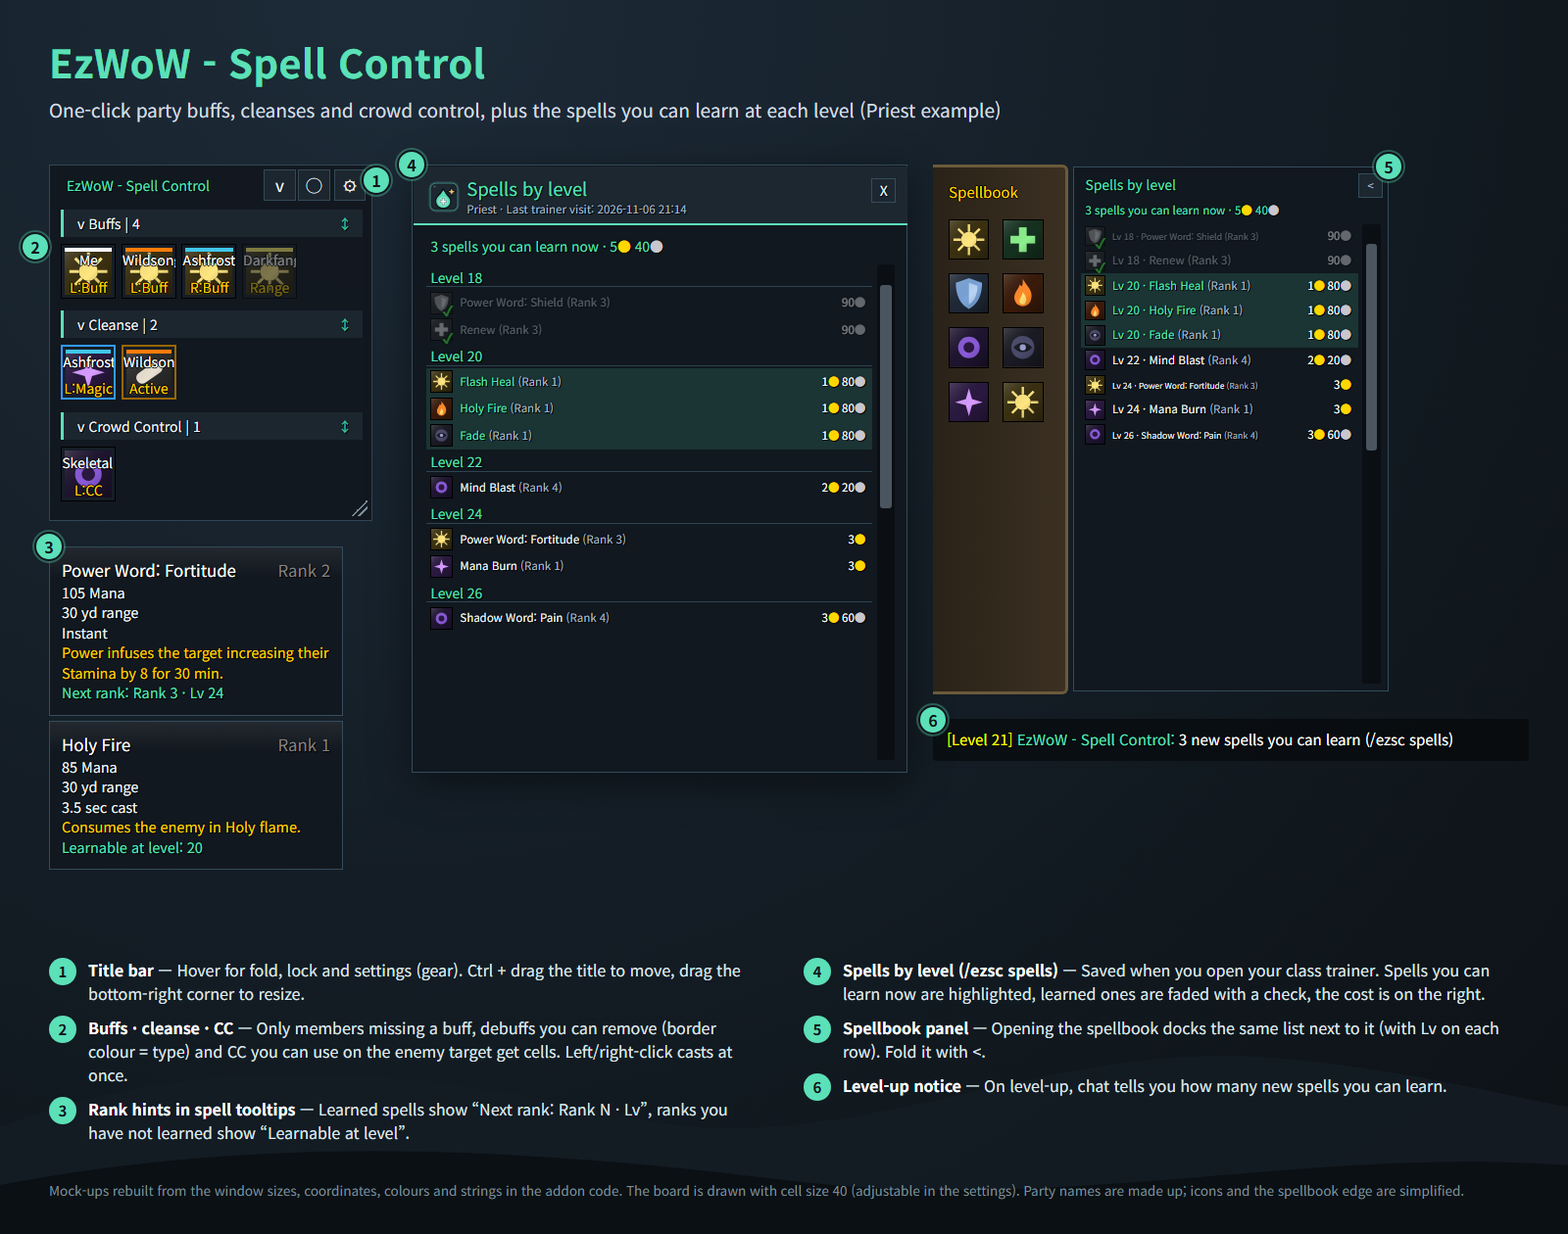
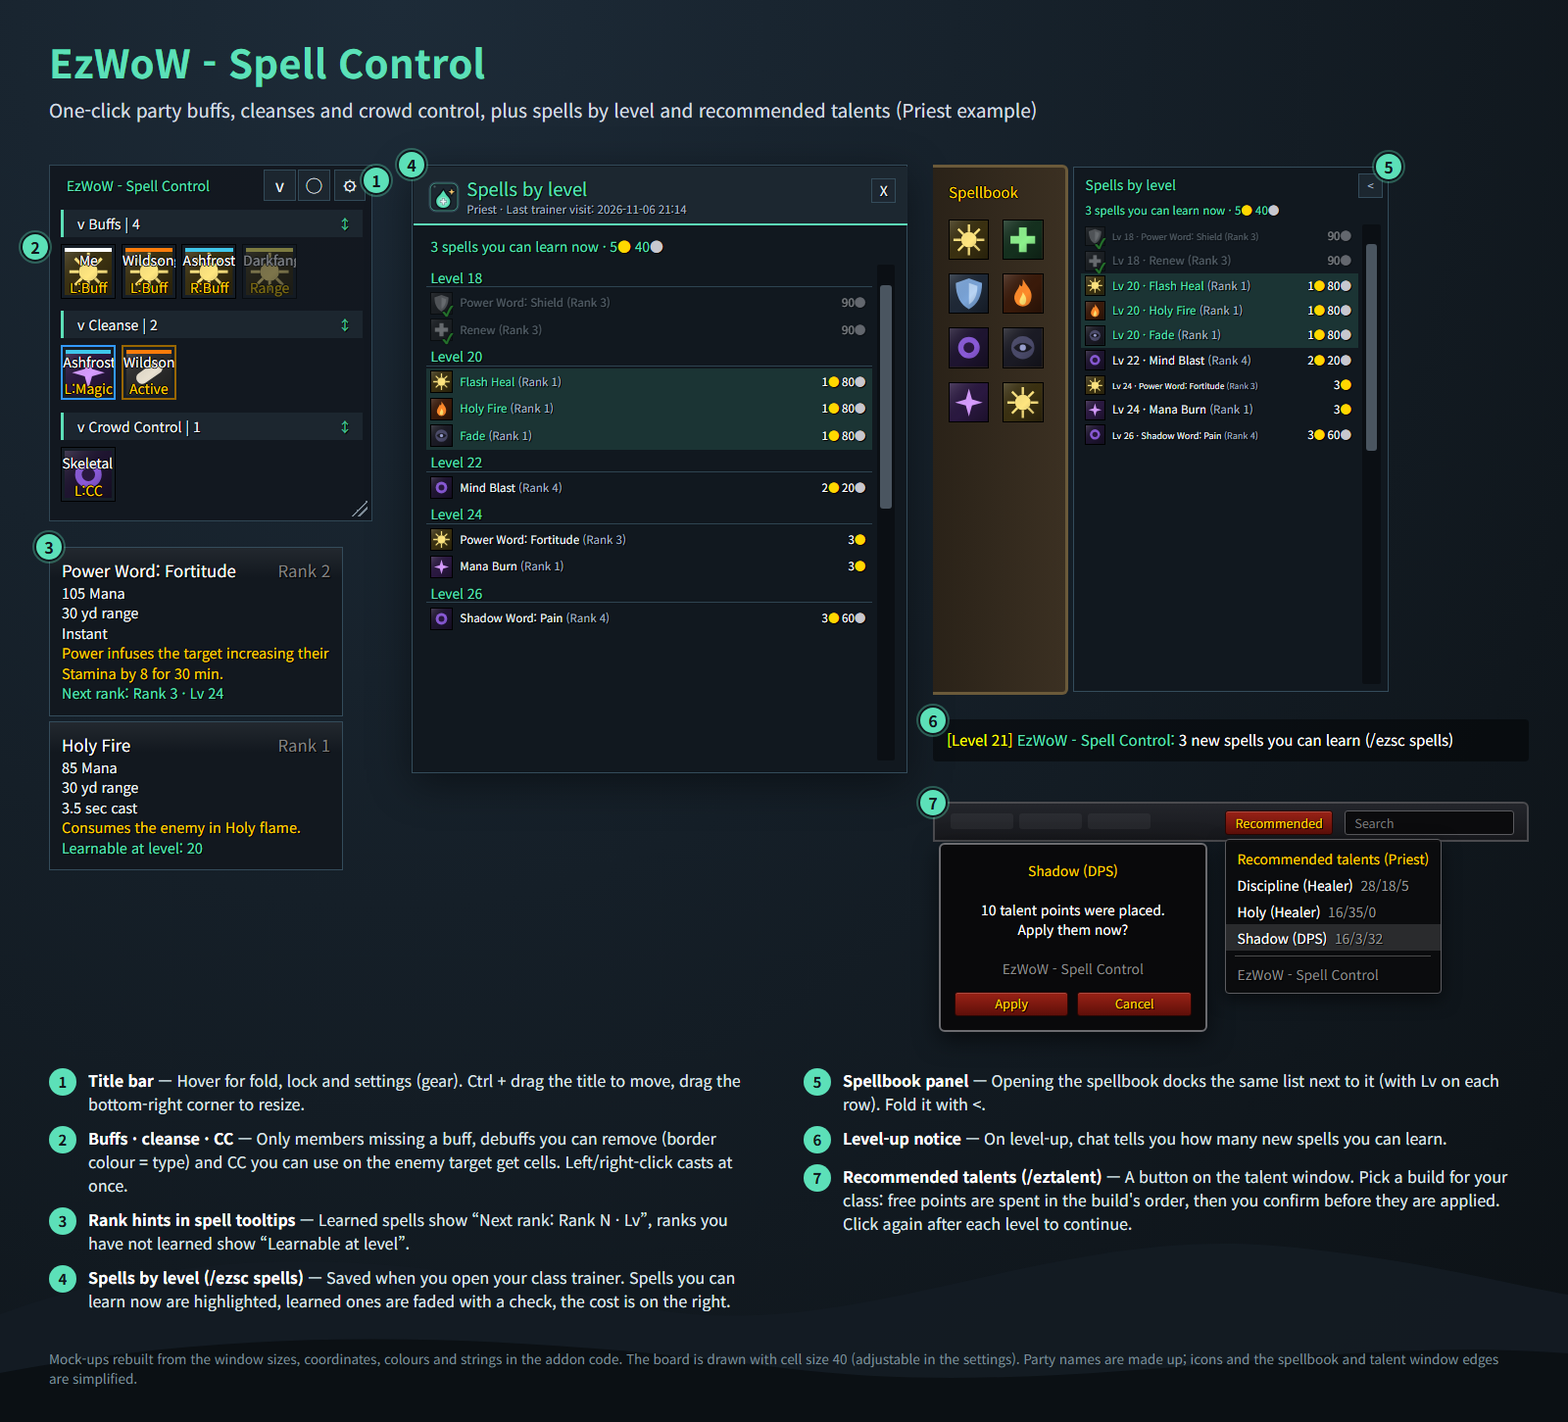
Update README, CurseForge description and example images

diff --git a/scripts/make_readme_images.py b/scripts/make_readme_images.py
@@ -2,9 +2,9 @@
 """Draws the README mock-ups of EzWoW - Spell Control (docs/images/ui_*.png, settings_*.png).
 
 The tactical board, the spells-by-level window, the spellbook panel, a spell tooltip and
-the settings window are rebuilt from the sizes, coordinates, colours and strings in the
-addon code (UI/MicroBoard.lua, UI/SpellsByLevel.lua, UI/OptionsWindow.lua, Core/Init.lua
-DEFAULTS, Core/Locales.lua), in game pixels x scale. Icons are simplified drawings;
+the settings window and the recommended-talents button, menu and popup are rebuilt from the sizes,
+coordinates, colours and strings in the addon code (UI/MicroBoard.lua, UI/SpellsByLevel.lua,
+UI/OptionsWindow.lua, Modules/TalentBuilds.lua, Data/TalentBuilds.lua, Core/Init.lua DEFAULTS, Core/Locales.lua), in game pixels x scale. Icons are simplified drawings;
 every name is made up.
 
 usage: python scripts/make_readme_images.py .
@@ -473,7 +473,15 @@ def load(root):
     sbl_win = re.search(r"win:SetSize\((\d+), (\d+)\)", sbl)
     dock = re.search(r"panel:SetSize\(280, math\.max\((\d+), math\.min\(bookHeight - 4, (\d+)\)\)\)", sbl)
     tb = [(n, int(o)) for n, o in re.findall(r'buildToolbarControl\("\w+", "(\w+)", (-?\d+)', mb)]
-    return {"L": L, "dflt": dflt, "th": th, "W": int(win_size.group(1)), "H": int(win_size.group(2)), "checks": checks,
+    # recommended talents: button / menu / popup strings and the Priest builds
+    tbm = read(root, "Modules/TalentBuilds.lua")
+    tbd = read(root, "Data/TalentBuilds.lua")
+    tl = {"ko": lua_strings(lua_table(tbm, r"koKR = \{")), "en": lua_strings(lua_table(tbm, r"enUS = \{"))}
+    specs = {k: {"ko": ko, "en": en} for k, ko, en in re.findall(r'\["([\w-]+)"\] = \{ ko = "([^"]*)", en = "([^"]*)" \}', tbd)}
+    builds = [{"spec": sp, "ko": ko, "en": en, "split": split} for sp, ko, en, split in
+              re.findall(r'spec = "([\w-]+)", ko = "([^"]*)", en = "([^"]*)", split = "([^"]*)"', lua_table(tbd, r"PRIEST = \{"))]
+    tb_btn = re.search(r'button:SetSize\((\d+), (\d+)\)', tbm)
+    return {"tl": tl, "tSpecs": specs, "tBuilds": builds, "tBtn": (int(tb_btn.group(1)), int(tb_btn.group(2))),"L": L, "dflt": dflt, "th": th, "W": int(win_size.group(1)), "H": int(win_size.group(2)), "checks": checks,
             "simple": simple, "sections": list(zip(sections, sec_keys)), "steppers": steppers, "actions": actions,
             "sbl": sbl_c, "sblWin": (int(sbl_win.group(1)), int(sbl_win.group(2))), "dockMinMax": (int(dock.group(1)), int(dock.group(2))),
             "toolbar": tb, "small": int(re.search(r"ns\.SMALL_CELL_SIZE = (\d+)", init).group(1)),
@@ -482,7 +490,7 @@ def load(root):
 
 T = {
     "ko": {
-        "lead": "파티 버프 · 디버프 해제 · 메즈를 클릭 한 번으로, 그리고 레벨별로 배울 주문을 한눈에 (사제 예시)",
+        "lead": "파티 버프 · 디버프 해제 · 메즈를 클릭 한 번으로, 레벨별로 배울 주문과 추천 특성까지 (사제 예시)",
         "me": "나", "party": ["들꽃노래", "잿빛서리", "검은송곳"], "enemy": "해골 마법사",
         "cls": "사제", "scanned": "2026-11-06 21:14",
         "spells": [
@@ -506,8 +514,9 @@ T = {
             ("레벨별 배울 스킬 (/ezsc spells)", "직업 기술 전문가를 열 때 저장한 목록. 지금 배울 수 있는 주문은 강조, 배운 주문은 흐리게 체크, 오른쪽은 비용."),
             ("주문책 옆 패널", "주문책을 열면 같은 목록이 옆에 붙습니다(줄마다 Lv). < 단추로 접기."),
             ("레벨업 알림", "레벨이 오르면 새로 배울 수 있는 주문 수를 채팅창에 알려 줍니다."),
+            ("추천 특성 (/추천특성)", "특성 창의 단추. 직업별 빌드를 고르면 남은 포인트를 빌드 순서대로 넣고, 적용할지 한 번 더 묻습니다. 레벨이 오를 때마다 다시 누르면 이어서 찍습니다."),
         ],
-        "foot": "애드온 코드의 창 크기 · 좌표 · 색상 · 문구로 재현한 예시 화면입니다. 전술 보드는 칸 크기 40(설정에서 바꿀 수 있음)으로 그렸습니다. 파티원 이름은 지어낸 예시이고, 아이콘과 주문책 테두리는 단순화했습니다.",
+        "foot": "애드온 코드의 창 크기 · 좌표 · 색상 · 문구로 재현한 예시 화면입니다. 전술 보드는 칸 크기 40(설정에서 바꿀 수 있음)으로 그렸습니다. 파티원 이름은 지어낸 예시이고, 아이콘과 주문책 · 특성 창 테두리는 단순화했습니다.",
         "sLead": "/ezsc · 버프 · 해제 · 메즈 동작, 클릭 지정, 보유 주문, 창 배치, 레벨별 스킬",
         "sTitle": "설정창",
         "learned": [("보유 버프 (좌/우):", "[좌] 신의 권능: 인내, [우] 내면의 열정"), ("보유 해제 (좌/우):", "[좌] 마법 무효화, [우] 질병 치료"),
@@ -523,7 +532,7 @@ T = {
         "sFoot": "애드온 코드의 창 크기 · 좌표 · 색상 · 문구로 재현한 예시 화면입니다. 체크 상태와 숫자는 기본값이며, 보유 주문 목록은 사제 예시입니다.",
     },
     "en": {
-        "lead": "One-click party buffs, cleanses and crowd control, plus the spells you can learn at each level (Priest example)",
+        "lead": "One-click party buffs, cleanses and crowd control, plus spells by level and recommended talents (Priest example)",
         "me": "Me", "party": ["Wildsong", "Ashfrost", "Darkfang"], "enemy": "Skeletal Mage",
         "cls": "Priest", "scanned": "2026-11-06 21:14",
         "spells": [
@@ -547,8 +556,9 @@ T = {
             ("Spells by level (/ezsc spells)", "Saved when you open your class trainer. Spells you can learn now are highlighted, learned ones are faded with a check, the cost is on the right."),
             ("Spellbook panel", "Opening the spellbook docks the same list next to it (with Lv on each row). Fold it with <."),
             ("Level-up notice", "On level-up, chat tells you how many new spells you can learn."),
+            ("Recommended talents (/eztalent)", "A button on the talent window. Pick a build for your class: free points are spent in the build's order, then you confirm before they are applied. Click again after each level to continue."),
         ],
-        "foot": "Mock-ups rebuilt from the window sizes, coordinates, colours and strings in the addon code. The board is drawn with cell size 40 (adjustable in the settings). Party names are made up; icons and the spellbook edge are simplified.",
+        "foot": "Mock-ups rebuilt from the window sizes, coordinates, colours and strings in the addon code. The board is drawn with cell size 40 (adjustable in the settings). Party names are made up; icons and the spellbook and talent window edges are simplified.",
         "sLead": "/ezsc · buff, cleanse & CC behaviour, click assignment, learned spells, layout, spells by level",
         "sTitle": "Settings",
         "learned": [("Buffs (L/R):", "[L] Power Word: Fortitude, [R] Inner Fire"), ("Cleanse (L/R):", "[L] Dispel Magic, [R] Cure Disease"),
@@ -735,10 +745,58 @@ def ui_page(lang, ctx):
                  f'border-radius:4px;font-size:15px;line-height:1.5;{SHADOW}"><span style="color:#ffff00">[{esc("레벨 21" if lang == "ko" else "Level 21")}]</span> '
                  f'<span style="color:#5CE0B8">{esc(t["chat"])}</span> <span style="color:#fff">{msg}</span></div>')
     calls.append((sbx, cy))
+    # 7 recommended talents: button on the talent window, its menu, the confirm popup
+    S = 1.15
+    tl = ctx["tl"][lang]
+    ky = cy + 84
+    strip_w = PAGE_W - 40 - sbx
+    bw, bh = ctx["tBtn"]
+    sw, sh = 150, 22                       # talent search box (simplified)
+    sx = sbx + strip_w - 16 - sw * S
+    bxx = sx - 10 * S - bw * S
+    red_btn = ("background:linear-gradient(#9a2216,#5e0f09);border:1px solid #2a0704;border-radius:3px;"
+               "box-shadow:inset 0 1px 0 rgba(255,255,255,.18);display:flex;align-items:center;justify-content:center")
+    parts.append(f'<div class="abs" style="left:{sbx}px;top:{ky:.0f}px;width:{strip_w:.0f}px;height:{px(36)};'
+                 f'background:linear-gradient(#23252b,#17181c);border:{px(2)} solid #4b4b4f;border-radius:6px 6px 0 0">'
+                 + "".join(f'<div class="abs" style="left:{16 + i * 70}px;top:{px(9)};width:{px(56)};height:{px(14)};'
+                           f'background:rgba(255,255,255,.05);border-radius:3px"></div>' for i in range(3))
+                 + '</div>')
+    parts.append(f'<div class="abs" style="left:{sx:.0f}px;top:{ky + 7 * S:.0f}px;width:{px(sw)};height:{px(sh)};background:#0b0b0d;'
+                 f'border:1px solid #5a5a5e;border-radius:3px;font-size:{px(11)};color:#7a7a7a;padding-left:{px(8)};line-height:{px(sh - 2)}">'
+                 f'{esc("검색" if lang == "ko" else "Search")}</div>')
+    parts.append(f'<div class="abs" style="left:{bxx:.0f}px;top:{ky + 7 * S:.0f}px;width:{px(bw)};height:{px(bh)};{red_btn}">'
+                 f'<span style="font-size:{px(11)};color:#ffd100;{SHADOW}">{esc(tl["button"])}</span></div>')
+    # menu (MenuUtil context menu) under the button
+    cls_name = t["cls"]
+    rows = [f'<div style="color:#ffd100;font-size:{px(12)};padding:{px(3)} {px(10)}">{esc(tl["menuTitle"].replace("%s", cls_name))}</div>']
+    pick = None
+    for b in ctx["tBuilds"]:
+        label = f'{ctx["tSpecs"][b["spec"]][lang]} ({b[lang]})'
+        hl = "background:rgba(255,255,255,.13);" if b["spec"] == "shadow" else ""
+        if b["spec"] == "shadow":
+            pick = label
+        rows.append(f'<div style="{hl}color:#fff;font-size:{px(12)};padding:{px(3)} {px(10)};white-space:nowrap">{esc(label)}'
+                    f'&nbsp;&nbsp;<span style="color:#999999">{esc(b["split"])}</span></div>')
+    rows.append(f'<div style="height:1px;background:#4a4a4a;margin:{px(4)} {px(8)}"></div>')
+    rows.append(f'<div style="color:#8c8c8c;font-size:{px(12)};padding:{px(3)} {px(10)}">EzWoW - Spell Control</div>')
+    my = ky + (7 + bh + 4) * S
+    parts.append(f'<div class="abs" style="left:{bxx:.0f}px;top:{my:.0f}px;min-width:{px(180)};padding:{px(5)} 0;background:rgba(12,12,14,.95);'
+                 f'border:1px solid #5c5c60;border-radius:4px;box-shadow:0 6px 18px rgba(0,0,0,.5);{SHADOW}z-index:40">{"".join(rows)}</div>')
+    menu_bottom = my + (5 * 2 + 4 * 24 + 9 + 24) * S
+    # confirm popup (StaticPopup), left of the menu
+    pw = min(300, (bxx - sbx - 24) / S)
+    popup = wow(tl["confirm"].replace("%s", pick or "", 1).replace("%d", "10", 1)) + "<br><br>" + '<span style="color:#8c8c8c">EzWoW - Spell Control</span>'
+    pbtn = lambda s: (f'<div style="width:{px(110)};height:{px(22)};{red_btn}"><span style="font-size:{px(11)};color:#ffd100;{SHADOW}">'  # noqa: E731
+                      f'{esc(s)}</span></div>')
+    parts.append(f'<div class="abs" style="left:{sbx + 6:.0f}px;top:{my + 4:.0f}px;width:{px(pw)};padding:{px(14)} {px(12)} {px(12)};'
+                 f'background:rgba(8,8,10,.94);border:{px(2)} solid #6c6c70;border-radius:6px;text-align:center;font-size:{px(12)};'
+                 f'line-height:1.45;color:#fff;{SHADOW}box-shadow:0 8px 24px rgba(0,0,0,.55);z-index:35">{popup}'
+                 f'<div style="display:flex;justify-content:center;gap:{px(8)};margin-top:{px(12)}">{pbtn(tl["apply"])}{pbtn(tl["cancel"])}</div></div>')
+    calls.append((sbx, ky))
     parts.append(callouts(calls))
-    ny = max(ty + 420, cy + 80)
-    parts.append(notes_block(50, ny, 730, [(a, esc(b_)) for a, b_ in t["notes"][:3]]))
-    parts.append(notes_block(820, ny, 730, [(a, esc(b_)) for a, b_ in t["notes"][3:]], start=4))
+    ny = max(ty + 420, menu_bottom + 40, my + 4 + 200 * S)   # under the menu and the popup
+    parts.append(notes_block(50, ny, 730, [(a, esc(b_)) for a, b_ in t["notes"][:4]]))
+    parts.append(notes_block(820, ny, 730, [(a, esc(b_)) for a, b_ in t["notes"][4:]], start=5))
     parts.append(f'<div class="foot" style="left:50px;width:1500px">{esc(t["foot"])}</div>')
     return "".join(parts)
 

diff --git a/README.md b/README.md
@@ -19,13 +19,15 @@ WoW Forever (`Interface: 16001`) · `/ezsc`
 
 직업 기술 전문가를 한 번 열면 **레벨별로 배울 주문과 비용**을 저장해 두고, 별도 창(`/ezsc spells`) · 주문책 옆 패널 · 주문 툴팁 · 레벨업 알림으로 알려 줍니다.
 
+특성 창에는 **추천 특성** 단추가 붙습니다. 직업별 추천 빌드를 고르면 남은 특성 포인트를 빌드 순서대로 넣어 줍니다(`/추천특성`).
+
 ### 화면 미리보기
 
 ![전술 보드와 레벨별 배울 스킬](docs/images/ui_ko.png)
 
 ![설정창](docs/images/settings_ko.png)
 
-> 이미지는 애드온 코드의 창 크기 · 좌표 · 색상 · 문구로 재현한 **예시 화면**(사제 예시)입니다. 전술 보드는 칸 크기 40으로 그렸고, 파티원 이름은 지어낸 예시입니다.
+> 이미지는 애드온 코드의 창 크기 · 좌표 · 색상 · 문구로 재현한 **예시 화면**(사제 예시)입니다. 전술 보드는 칸 크기 40으로 그렸고, 파티원 이름은 지어낸 예시입니다. 주문책과 특성 창은 테두리만 단순하게 그렸습니다.
 
 ### 설치
 
@@ -45,6 +47,7 @@ WoW Forever (`Interface: 16001`) · `/ezsc`
 | ④ | 레벨별 배울 스킬 (`/ezsc spells`) | 직업 기술 전문가 창을 열 때 저장한 목록을 레벨별로 보여 줍니다. **지금 배울 수 있는 주문**은 강조색, 이미 배운 주문은 흐리게 체크 표시, 오른쪽은 비용입니다. 위쪽에 지금 배울 수 있는 주문 수와 합계 비용, 제목 아래에 마지막 전문가 방문 시각이 나옵니다. |
 | ⑤ | 주문책 옆 패널 | 주문책을 열면 같은 목록이 주문책 오른쪽에 붙습니다(줄마다 `Lv`). `<` 단추로 접고 `>`로 다시 펼칩니다. |
 | ⑥ | 레벨업 알림 | 레벨이 오르면 새로 배울 수 있는 주문 수를 채팅창에 알려 줍니다(전투 중이면 전투가 끝난 뒤). |
+| ⑦ | 추천 특성 (`/추천특성`) | 특성 창 검색창 왼쪽의 **추천 특성** 단추를 누르면 내 직업의 빌드 목록(`전문화 (역할)  분배`)이 나옵니다. 하나를 고르면 남은 포인트를 넣고, **적용할지 한 번 더 묻습니다**. |
 
 #### 클릭 조작
 
@@ -63,6 +66,15 @@ WoW Forever (`Interface: 16001`) · `/ezsc`
 - **단체 버프 우선**: 야생의 선물, 신비한 총명함, 천상의 기원 등을 배웠다면 먼저 쓰도록 할 수 있습니다.
 - **만료 임박**: 남은 시간이 설정값(기본 3분)보다 짧은 버프는 빠진 것으로 보고 미리 다시 걸 수 있게 합니다.
 - **랭크 자동 교체**: 새 랭크를 배우면 단축바에 있는 낮은 랭크를 새 랭크로 바꿉니다.
+- **전투 중 버프 상태**: 전투 중에도 버프 칸은 버프가 다시 걸리면 바로 `완료`로 바뀌고, 풀리면 다시 빠진 상태로 보입니다.
+
+#### 추천 특성
+
+- 특성 창을 열면 검색창 왼쪽에 **추천 특성** 단추가 생깁니다. `/추천특성`(`/eztalent`)으로 어디서나 같은 메뉴를 열 수 있습니다.
+- 메뉴에는 내 직업의 1~60레벨 빌드가 나옵니다(예: `암흑 (딜러)  16/3/32`). 전문화마다 하나씩, 직업마다 3개이고 드루이드는 4개(야성 딜러 · 탱커 따로)입니다.
+- 빌드를 고르면 남은 포인트를 빌드 순서대로 넣은 뒤 **적용 / 취소**를 묻습니다. 취소하면 넣은 포인트를 되돌립니다.
+- 레벨업 중에는 레벨이 오를 때마다 다시 누르면 이어서 찍습니다. 빌드에 없는 특성에 이미 포인트가 있으면 채팅창에 알려 줍니다.
+- 전투 중에는 특성을 바꿀 수 없습니다.
 
 ### 설정창 (`/ezsc`)
 
@@ -95,6 +107,7 @@ WoW Forever (`Interface: 16001`) · `/ezsc`
 | `/ezsc lock` | 보드 잠금/해제 |
 | `/ezsc reset` | 보드 위치 · 크기와 섹션 순서 초기화 (전투 중이 아닐 때) |
 | `/ezsc help` | 명령어 안내 |
+| `/추천특성` (`/eztalent`) | 추천 특성 메뉴 열기 |
 
 ### 저장 데이터
 
@@ -102,7 +115,7 @@ WoW Forever (`Interface: 16001`) · `/ezsc`
 
 ### 알아두면 좋은 점
 
-- 보안 주문 버튼을 쓰기 때문에 **전투 중에는 칸 구성이 바뀌지 않습니다**. 전투가 끝나면 자동으로 다시 정리됩니다.
+- 보안 주문 버튼을 쓰기 때문에 **전투 중에는 칸 구성이 바뀌지 않습니다**(버프 칸의 `완료` 표시는 전투 중에도 바뀝니다). 전투가 끝나면 자동으로 다시 정리됩니다.
 - 패시브 주문은 읽지 않습니다. 새 주문을 배웠는데 안 보이면 **새로고침**을 누르세요.
 - 레벨별 배울 스킬 목록은 **직업 기술 전문가를 한 번 열어야** 채워집니다. 전문가를 다시 열 때마다 새로 저장합니다.
 
@@ -116,13 +129,15 @@ A small tactical board that lets you **buff missing members, cleanse debuffs and
 
 Open your class trainer once and it saves **the spells you can learn at each level and their cost**, shown in a window (`/ezsc spells`), a panel next to the spellbook, spell tooltips and a level-up notice.
 
+The talent window gets a **Recommended** button: pick a recommended build for your class and your free talent points are spent in the build's order (`/eztalent`).
+
 ### Screenshots
 
 ![Tactical board and spells by level](docs/images/ui_en.png)
 
 ![Settings window](docs/images/settings_en.png)
 
-> These are **mock-ups** (Priest example) rebuilt from the window sizes, coordinates, colours and strings in the code. The board is drawn with cell size 40; party names are made up.
+> These are **mock-ups** (Priest example) rebuilt from the window sizes, coordinates, colours and strings in the code. The board is drawn with cell size 40; party names are made up. The spellbook and talent window are drawn as simple outlines.
 
 ### Installation
 
@@ -142,6 +157,7 @@ Open your class trainer once and it saves **the spells you can learn at each lev
 | ④ | Spells by level (`/ezsc spells`) | The list saved from your class trainer, grouped by level. **Spells you can learn now** are highlighted, learned ones are faded with a check, the cost is on the right. The top line shows how many you can learn now and the total cost; the title shows your last trainer visit. |
 | ⑤ | Spellbook panel | Opening the spellbook docks the same list on its right (with `Lv` on each row). Fold it with `<`, unfold with `>`. |
 | ⑥ | Level-up notice | On level-up, chat tells you how many new spells you can learn (after combat if you are fighting). |
+| ⑦ | Recommended talents (`/eztalent`) | The **Recommended** button left of the talent search box lists your class's builds (`Spec (Role)  split`). Pick one to spend your free points; **you are asked once more before they are applied**. |
 
 #### Click controls
 
@@ -160,6 +176,15 @@ Badges: `Range` out of range · `OK` buff active · `OFF` offline · `DEAD` dead
 - **Prefer group buffs**: optionally use Gift of the Wild, Arcane Brilliance, Prayer of Fortitude, … first when learned.
 - **Expiring soon**: buffs with less time left than the setting (3 minutes by default) count as missing, so you can renew them early.
 - **Rank replacement**: after you learn a new rank, lower ranks on your action bars are swapped for it.
+- **Buff state in combat**: buff cells switch to `OK` as soon as the buff is back on, even in combat, and show as missing again when it falls off.
+
+#### Recommended talents
+
+- Opening the talent window adds a **Recommended** button left of its search box. `/eztalent` (`/추천특성`) opens the same menu anywhere.
+- The menu lists level 1–60 builds for your class (e.g. `Shadow (DPS)  16/3/32`): one per spec, three per class, four for druids (Feral DPS and Feral tank are separate).
+- Pick a build: your free points are spent in the build's order, then you choose **Apply / Cancel**. Cancel takes the placed points back.
+- While leveling, click again after each level to continue. If points already sit in talents outside the build, chat tells you.
+- Talents cannot be changed in combat.
 
 ### Settings window (`/ezsc`)
 
@@ -192,6 +217,7 @@ Badges: `Range` out of range · `OK` buff active · `OFF` offline · `DEAD` dead
 | `/ezsc lock` | Lock/unlock the board |
 | `/ezsc reset` | Reset board position, size and section order (out of combat) |
 | `/ezsc help` | List the commands |
+| `/eztalent` (`/추천특성`) | Open the recommended talents menu |
 
 ### Saved data
 
@@ -199,7 +225,7 @@ Badges: `Range` out of range · `OK` buff active · `OFF` offline · `DEAD` dead
 
 ### Tips
 
-- The board uses secure spell buttons, so **its cells cannot change during combat**; it refreshes when combat ends.
+- The board uses secure spell buttons, so **its cells cannot change during combat** (the `OK` state of buff cells still updates); it refreshes when combat ends.
 - Passive spells are ignored. If a newly learned spell does not appear, press **Refresh**.
 - The spells-by-level list fills in after you **open your class trainer once**; each visit saves it again.
 
